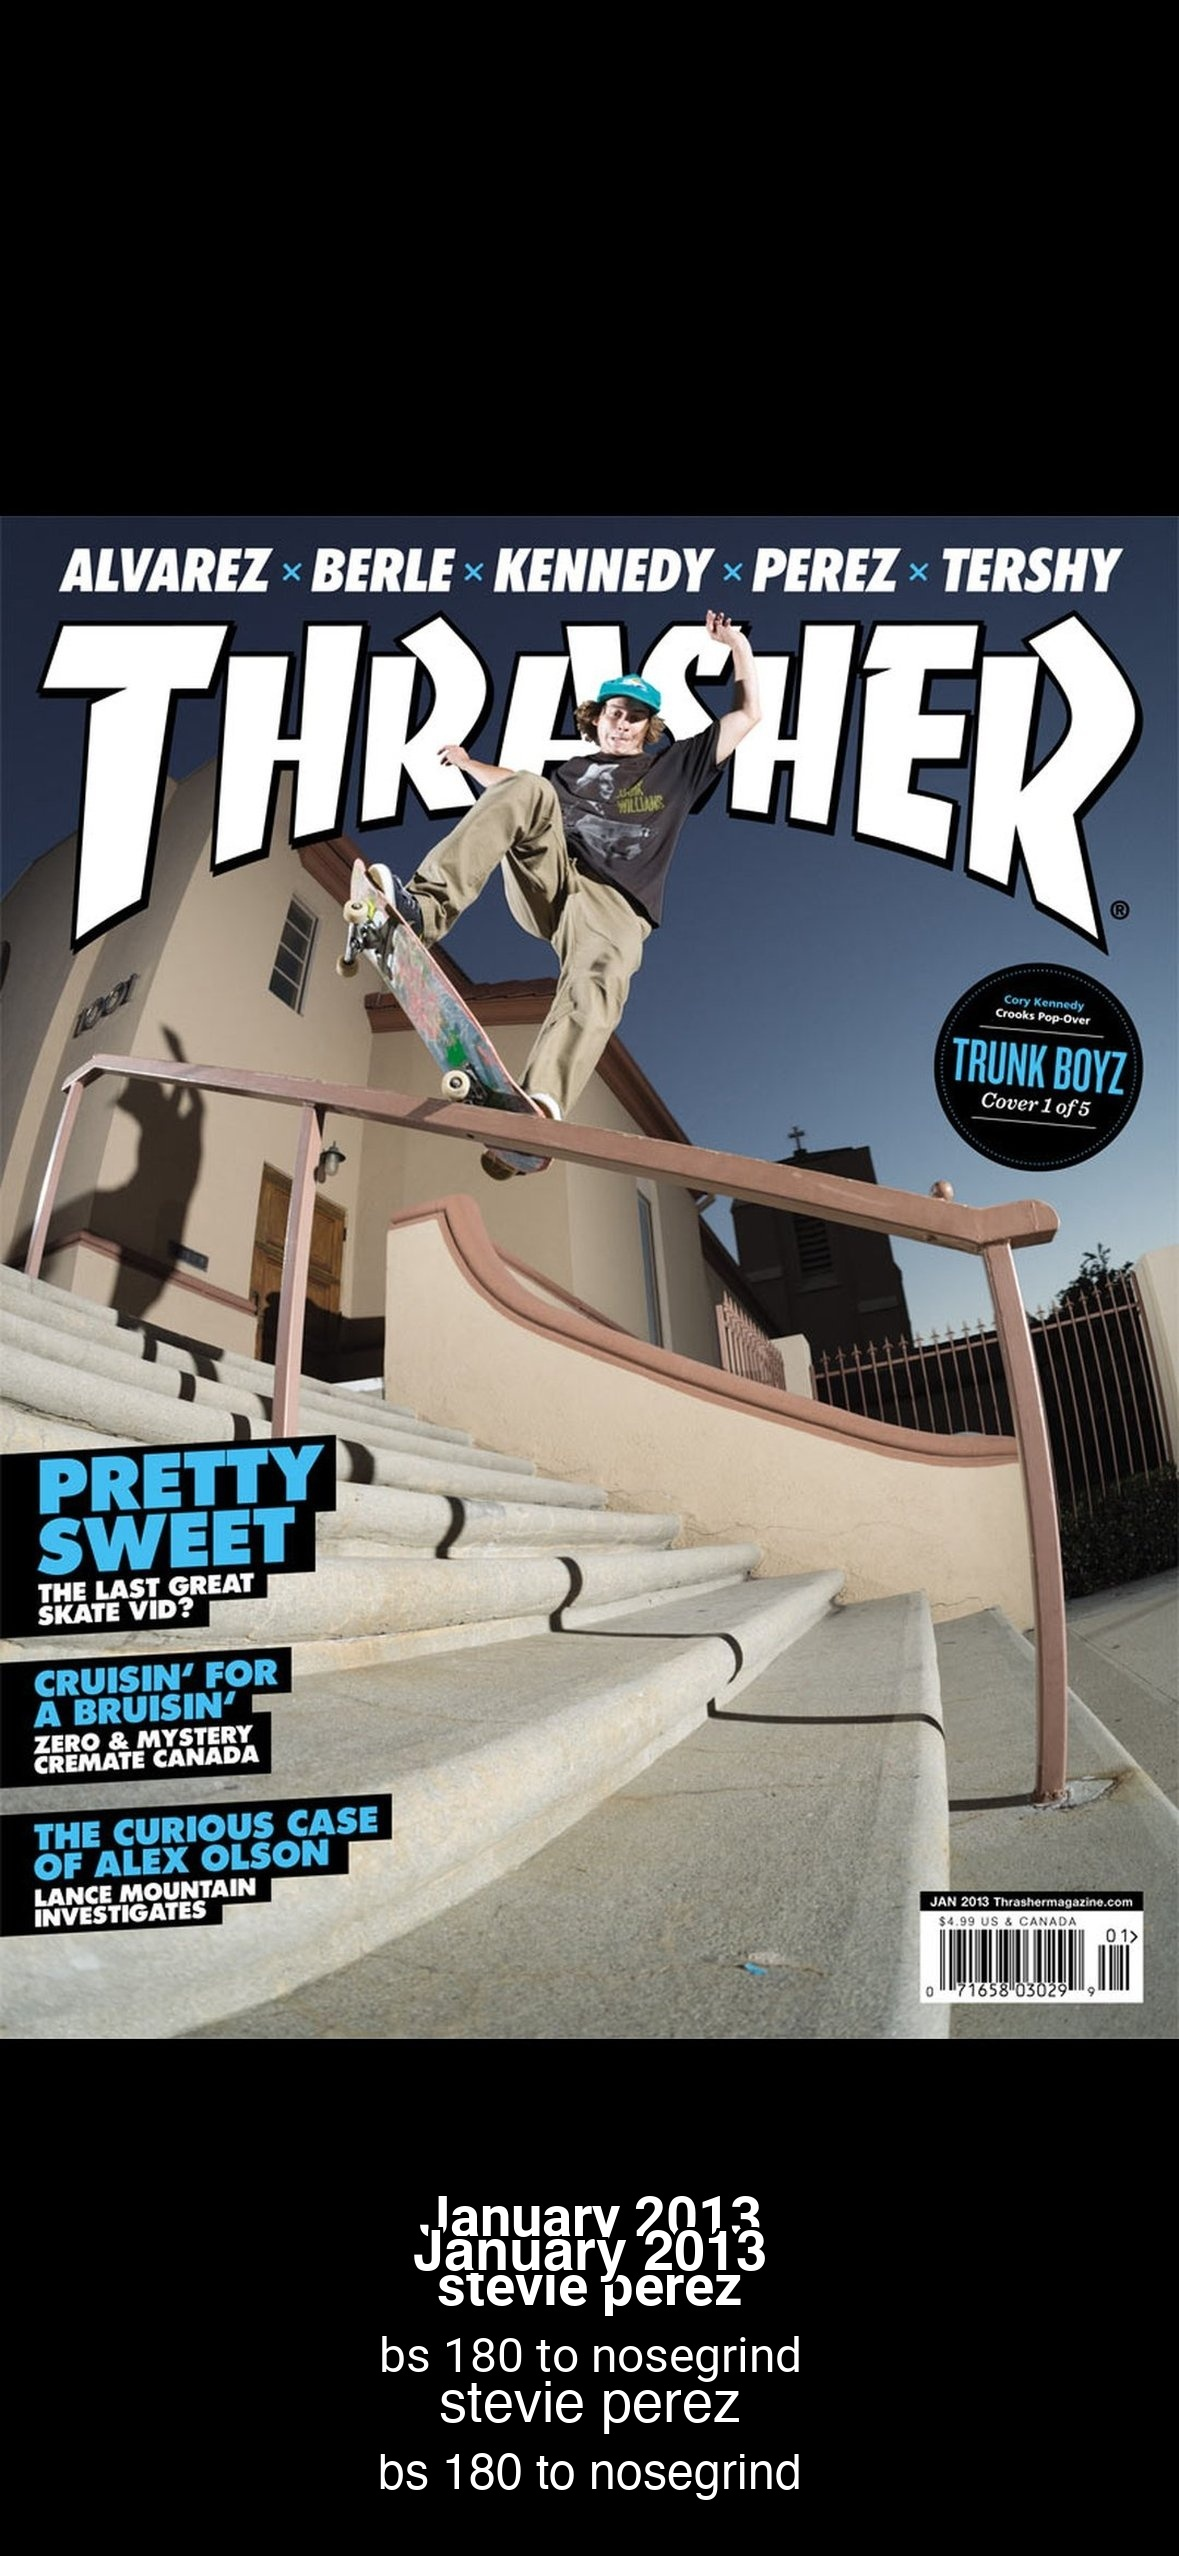
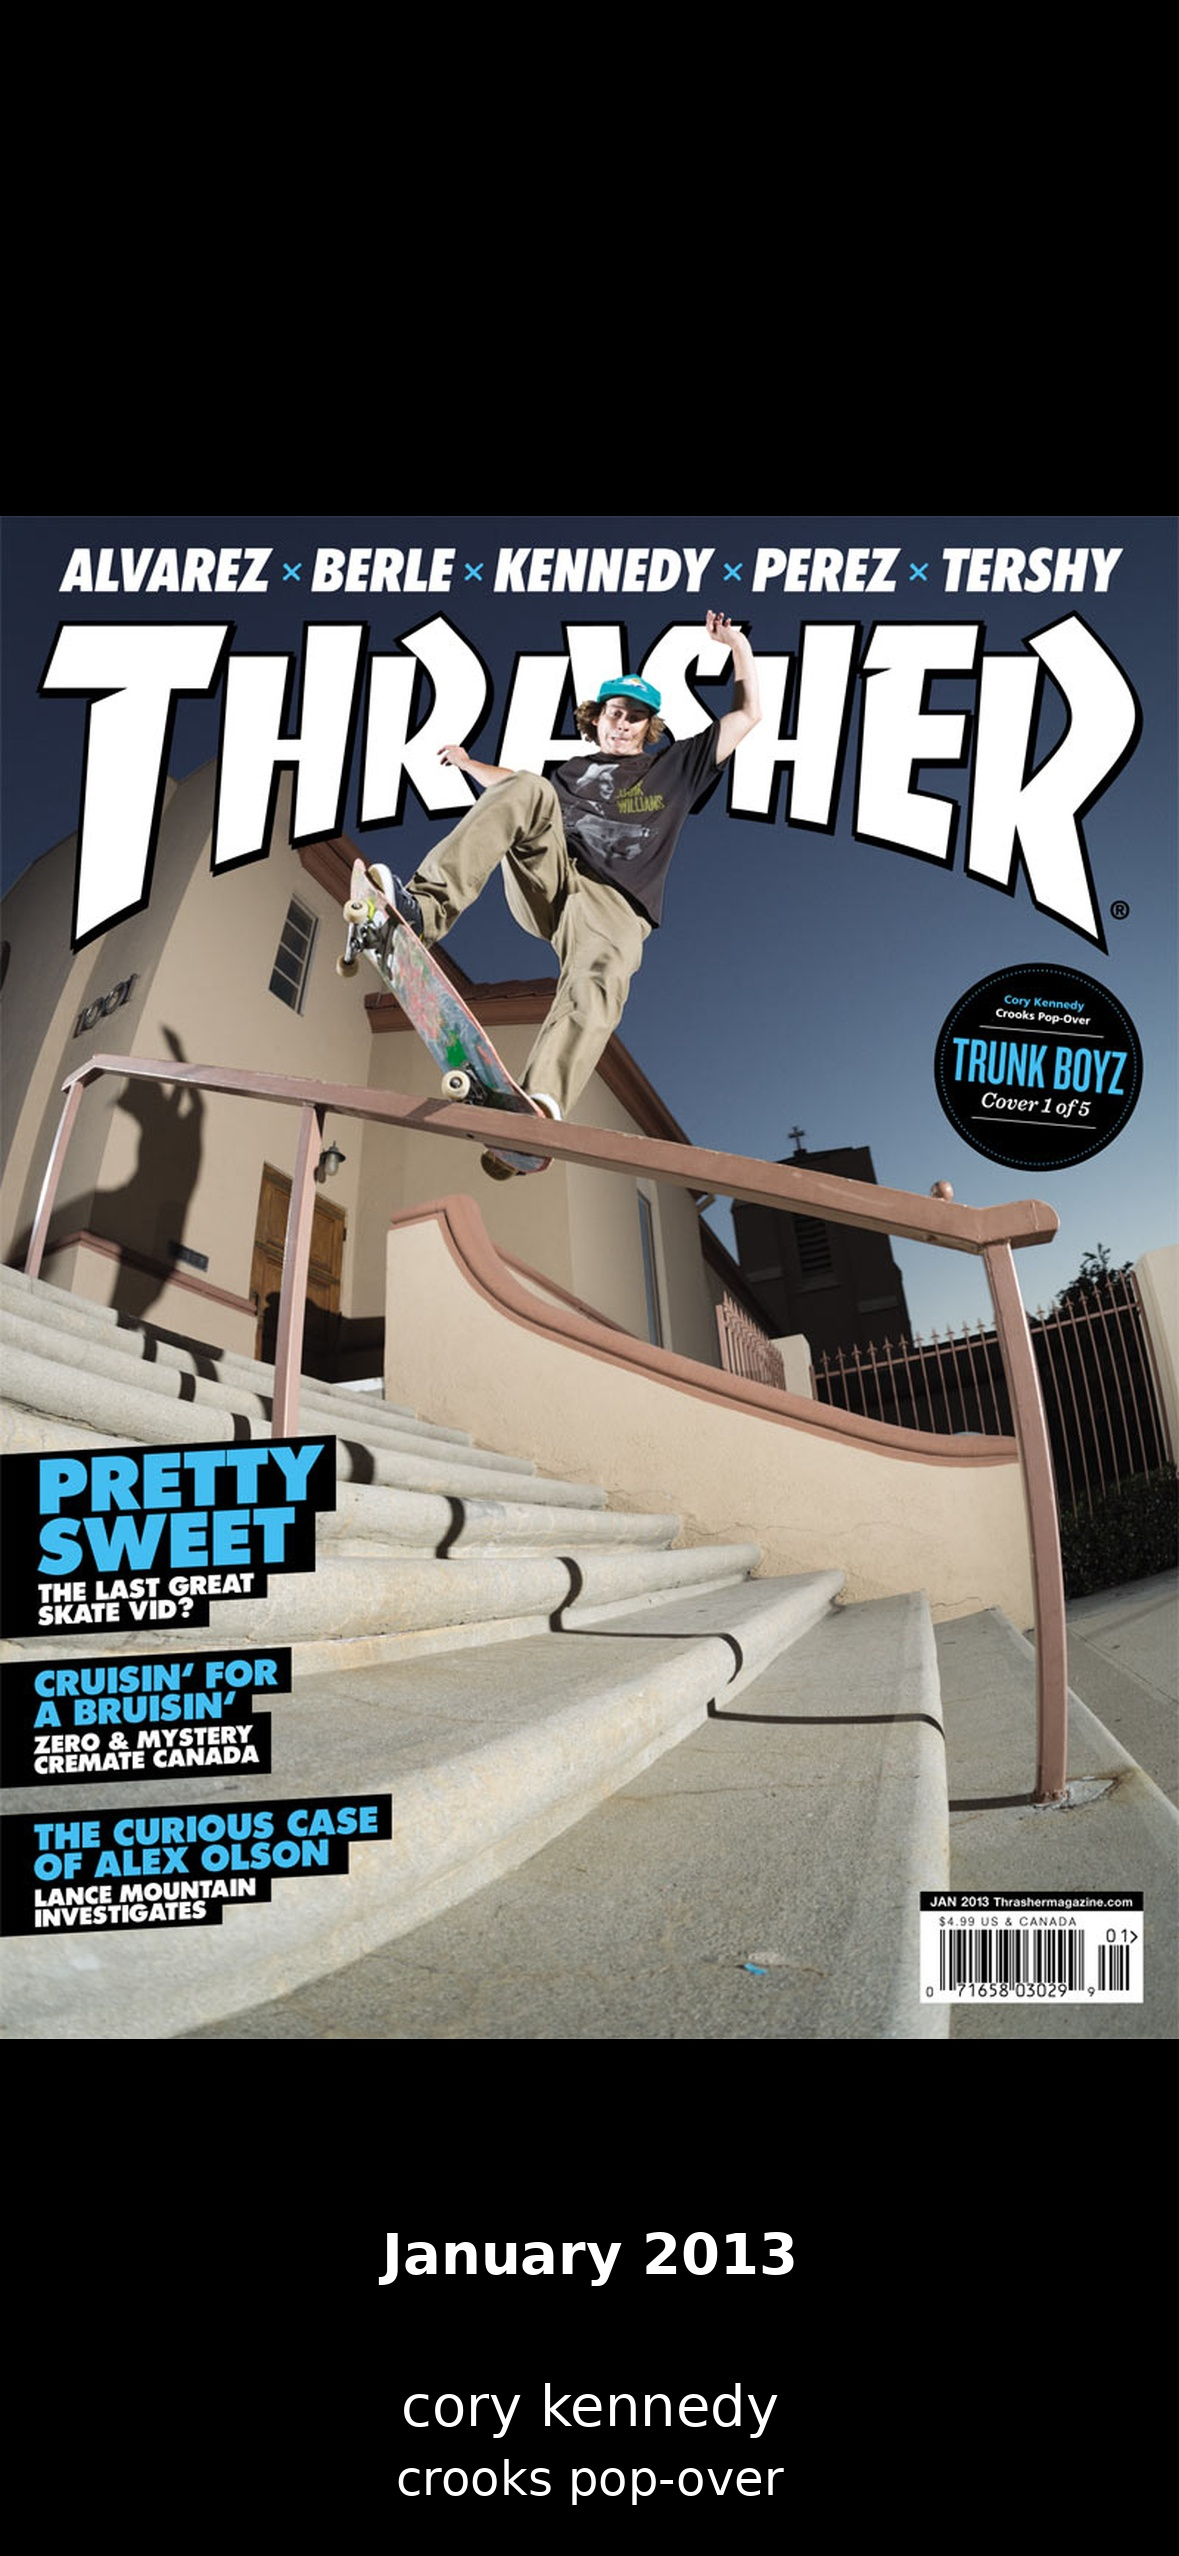
Fix cover credits paired with the wrong issue (#7)
* Fix December 1988 credits swapped with the Winter 13th issue

The lock screen showed Tony Alva's hill bomb because the 4ply Winter 1988 row was mapped onto December and overwrote Lance Mountain's sad plant. Keep the December cover and stop winter issues from taking that slot.

* Correct cover credits that were paired with the wrong issue

Multi-cover months had one skater's line copied onto every variant, and the 2002-2009 Thirteen issues were in the feed with no name. Match each file to its cover, use the printed trick where it differs from 4ply, and drop the duplicate August 2003 scan.

---------

Changed region(s): [[0.3053, 0.8345, 0.6718, 0.989], [0.855, 0.4018, 0.8855, 0.4327]]

diff --git a/scripts/apply_text_overlays_all.py b/scripts/apply_text_overlays_all.py
@@ -35,6 +35,16 @@ class TextOverlayApplier:
                 month = self.month_to_number(row['month'])
                 if month:
                     key = f"{year}_{month:02d}"
+                    # A second cover in the same month (or a 13th issue) must not
+                    # replace the calendar issue. Variants are assigned by hand
+                    # in shortcuts_text_overlay_covers.json.
+                    if key in fourply_data:
+                        kept = fourply_data[key]
+                        print(
+                            f"skip duplicate {key}: #{row['issueno']} {row['skater']}"
+                            f" (keeping #{kept['issueno']} {kept['skater']})"
+                        )
+                        continue
                     fourply_data[key] = row
         
         print(f"Loaded {len(fourply_data)} entries from 4ply CSV")
@@ -46,8 +56,9 @@ class TextOverlayApplier:
             'january': 1, 'february': 2, 'march': 3, 'april': 4,
             'may': 5, 'june': 6, 'july': 7, 'august': 8,
             'september': 9, 'october': 10, 'november': 11, 'december': 12,
-            'winter': 12  # Winter issue typically December
         }
+        # Winter is a 13th issue (1988: Tony Alva), not a stand-in for December.
+        # Mapping it to 12 overwrote the December cover (Lance Mountain, sad plant).
         return months.get(month_name.lower())
     
     def load_fonts(self):

diff --git a/README.md b/README.md
@@ -11,7 +11,7 @@ This repository is kept private to prevent malicious actors from hijacking the i
 
 ## 🎯 What This Project Does
 
-This project provides **565 Thrasher Magazine covers** from 1981-2026 that can be automatically set as iPhone lock screens. Each cover includes:
+This project provides **564 Thrasher Magazine covers** from 1981-2026 that can be automatically set as iPhone lock screens. Each cover includes:
 
 - 📅 **Date** (month and year)
 - 👤 **Skater name** 
@@ -20,7 +20,7 @@ This project provides **565 Thrasher Magazine covers** from 1981-2026 that can b
 
 ## 📊 Data Sources
 
-The complete collection of 565 covers was built by scraping:
+The complete collection of 564 covers was built by scraping:
 - **[Thrasher Magazine website](https://www.thrashermagazine.com/articles/magazine/)** - Current covers from 1981-present
 - **[4Ply Magazine archive](https://archive.4plymag.com)** - Metadata from 1981-2019
 - Manual metadata extraction from cover filenames and descriptions
@@ -65,7 +65,7 @@ The complete collection of 565 covers was built by scraping:
 
 ## 🎨 What You Get
 
-- **565 covers** spanning 46 years (1981-2026)
+- **564 covers** spanning 46 years (1981-2026)
 - **Complete coverage** - all 12 months for most years
 - **Perfect iPhone sizing** - no cropping or stretching
 - **Rich metadata** - know the skater, trick, and location
@@ -102,7 +102,7 @@ Choose which details to display (date, skater, trick, location).
 - They should look crisp on any iPhone model
 
 ### Want different covers?
-- The shortcut randomly picks from 565 options
+- The shortcut randomly picks from 564 options
 - Run it multiple times to see different covers
 
 ### Automation not running?
